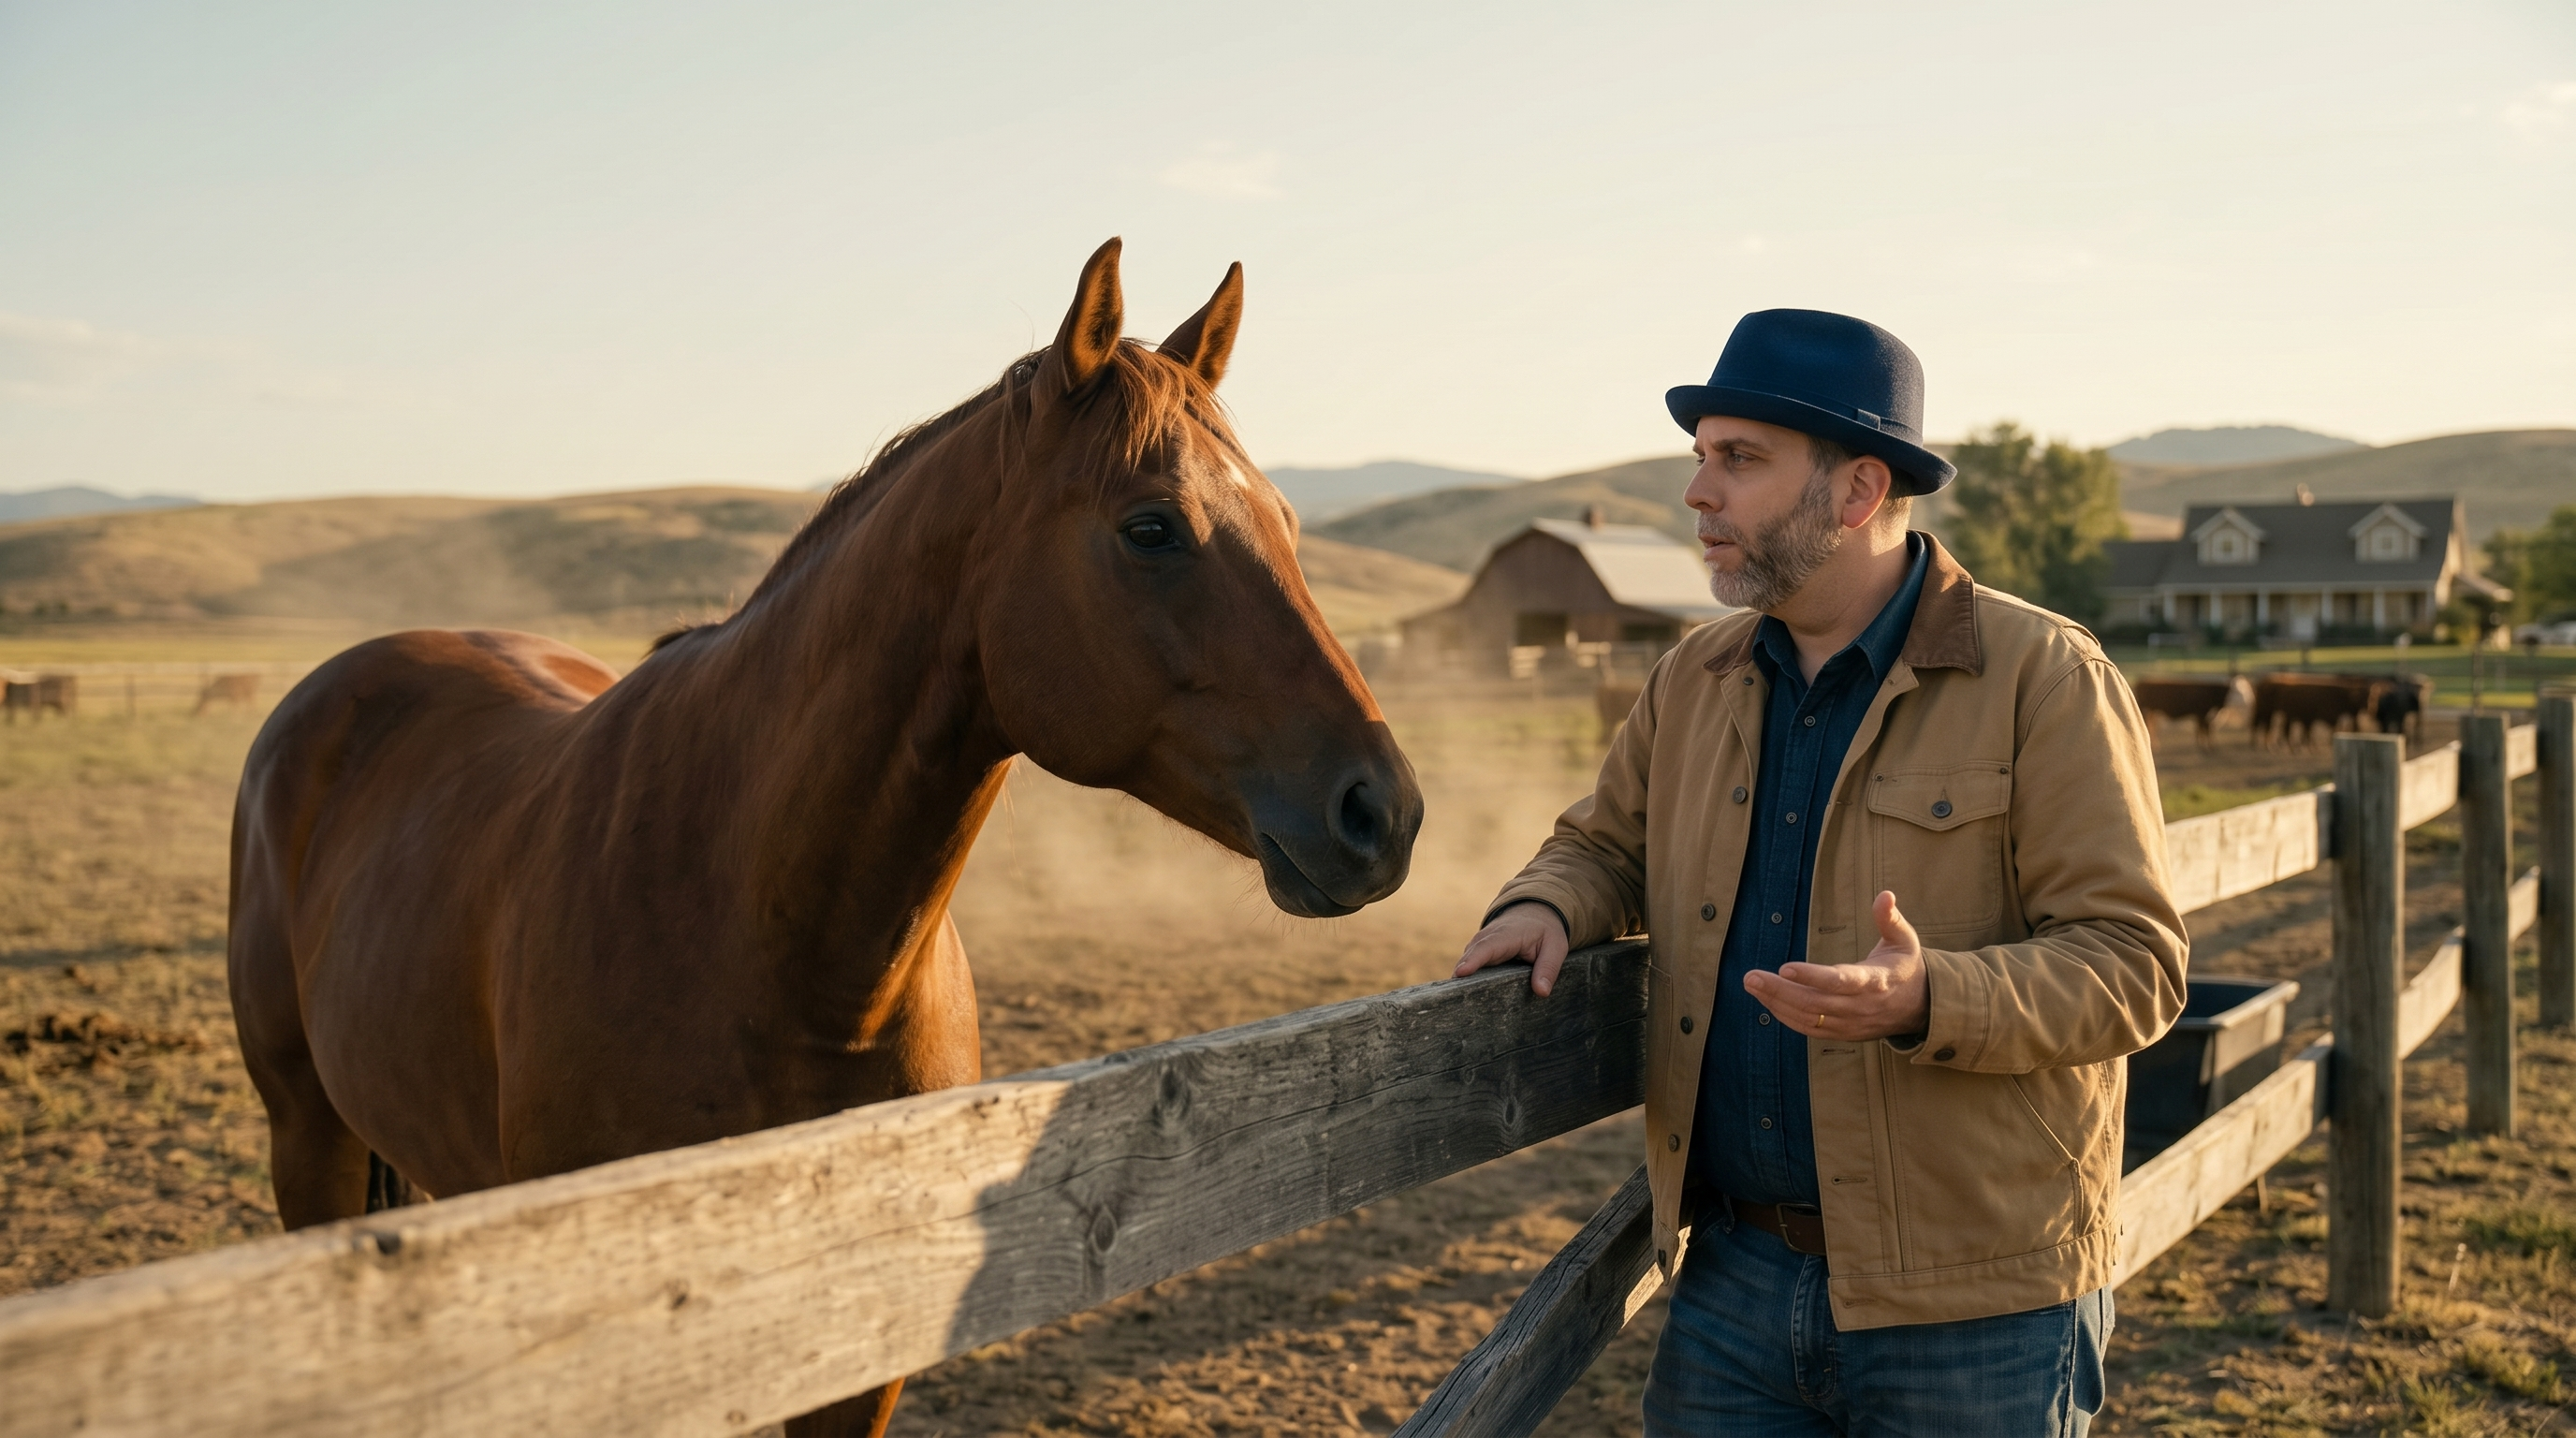
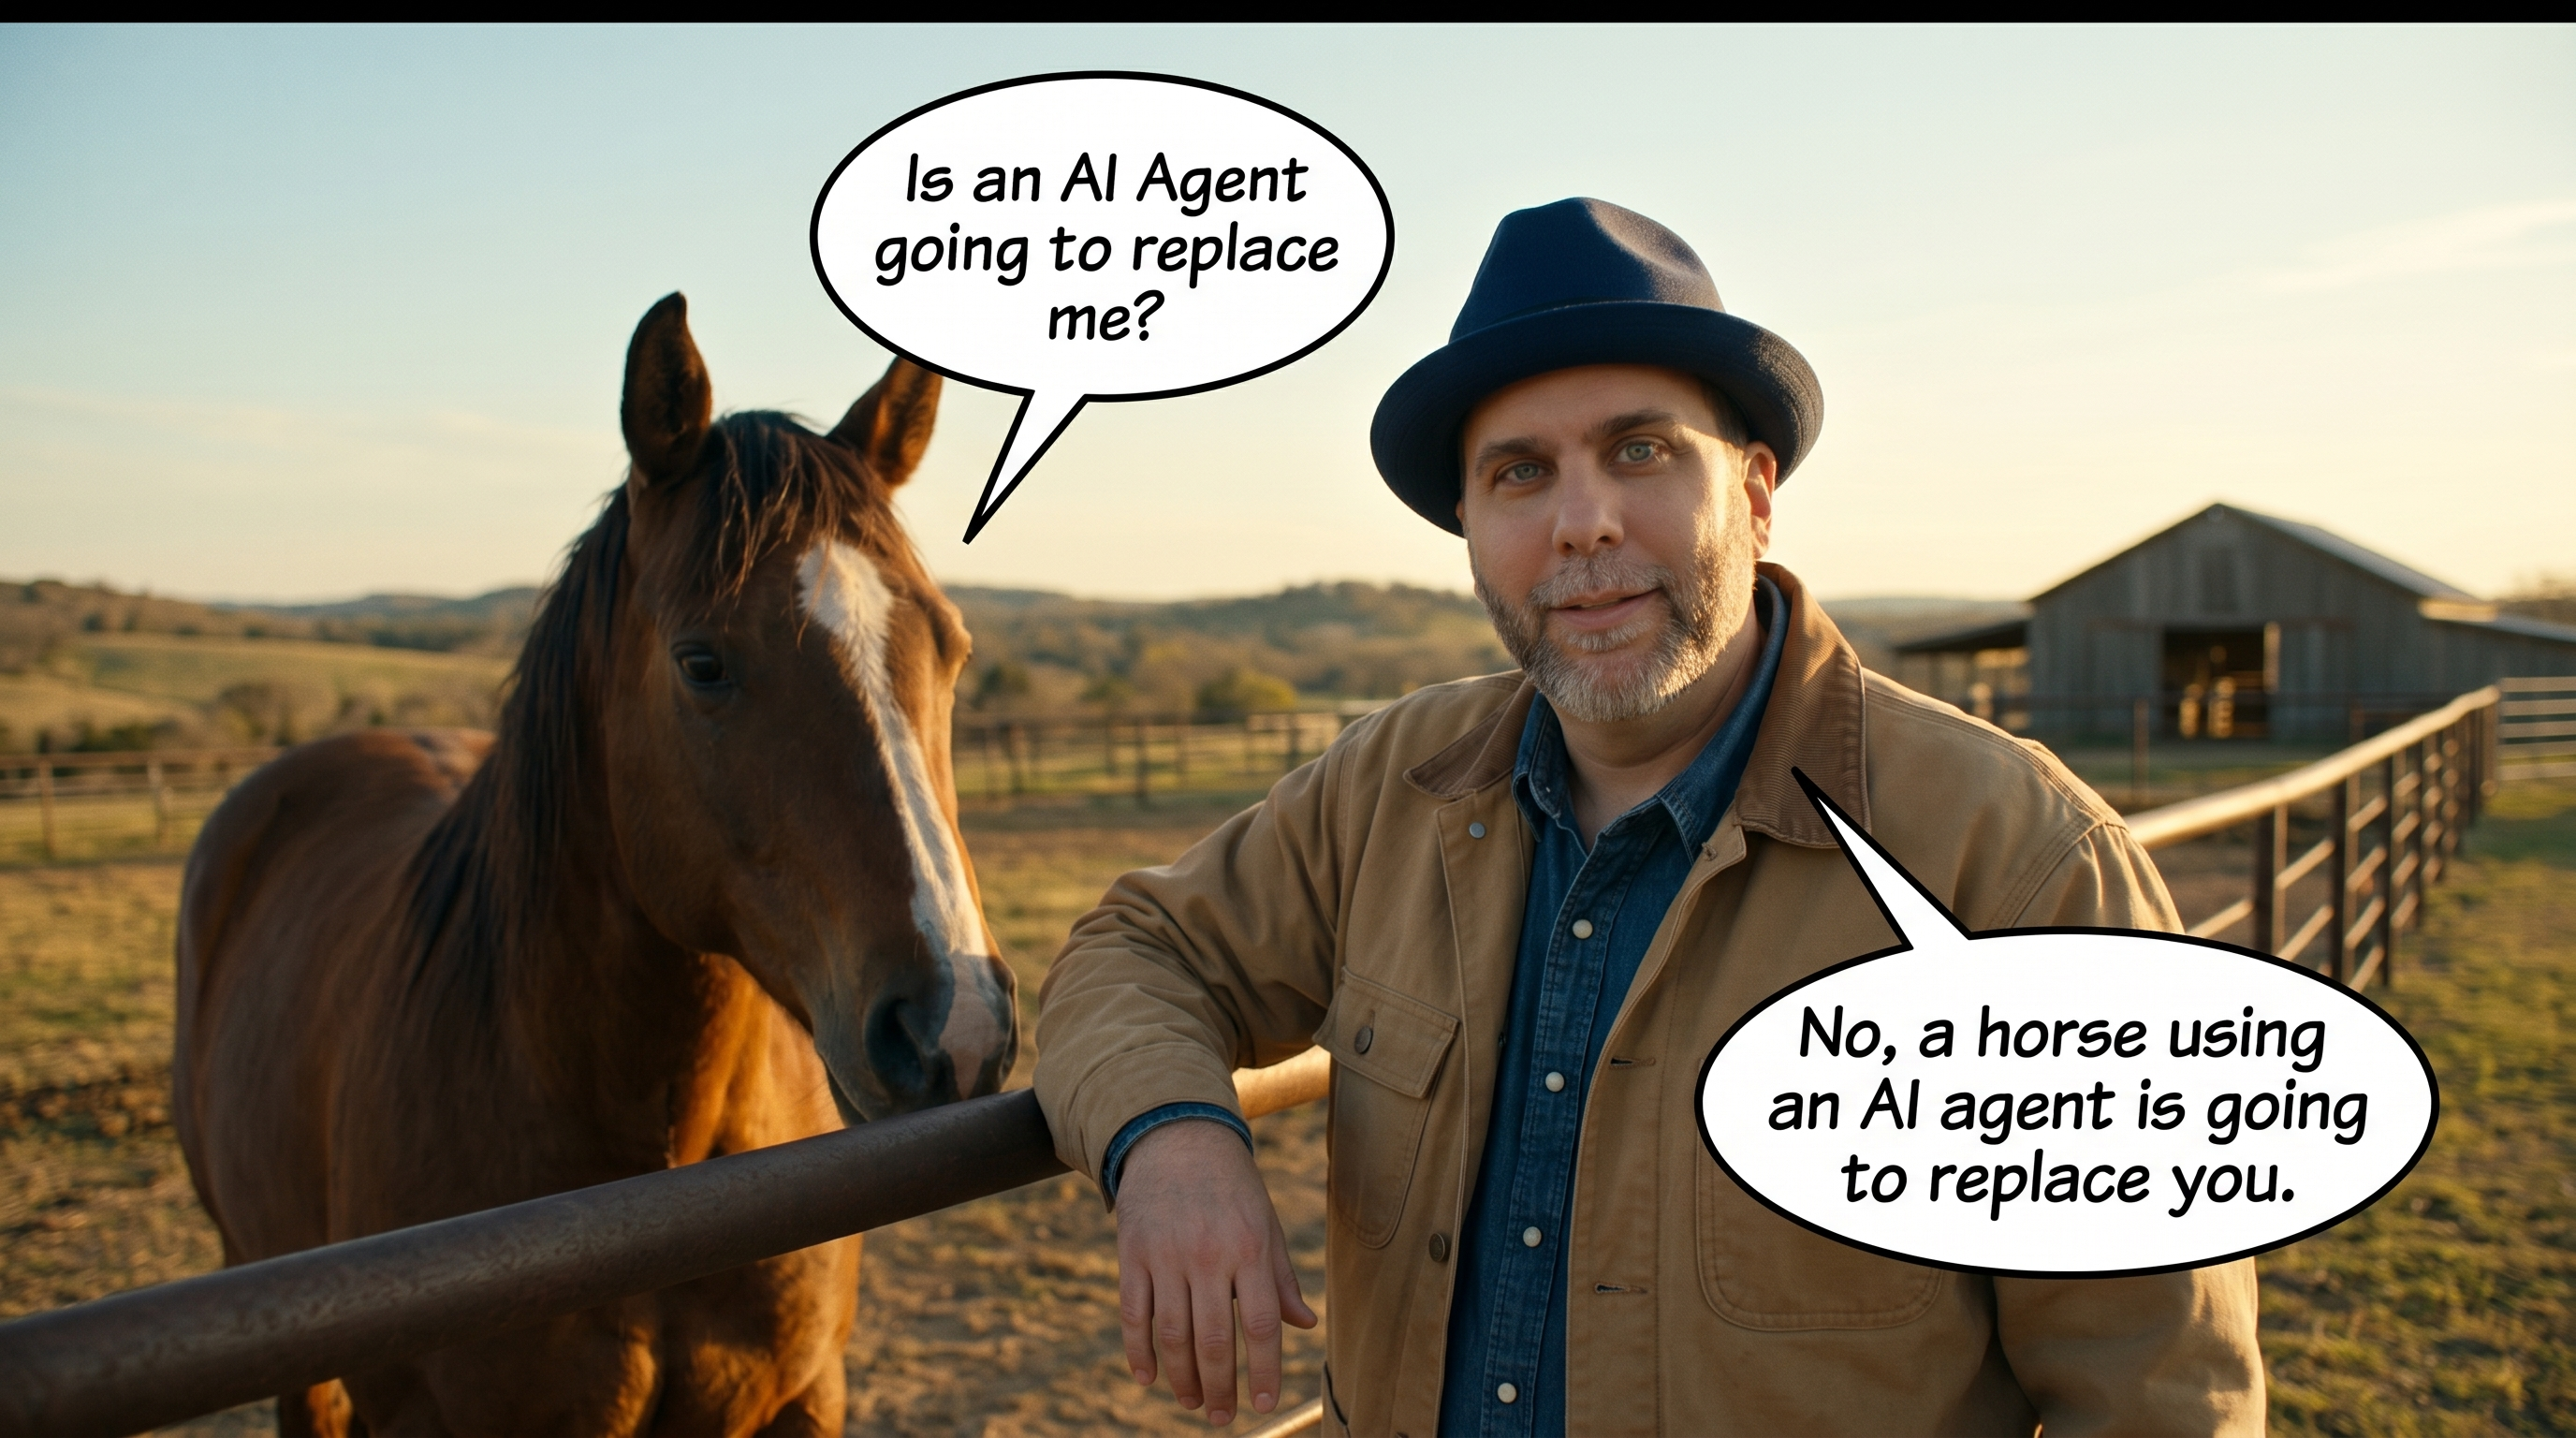
Bake hero dialogue into the image; remove the text quote from the page
The hero used to render the rancher's line to the horse as a styled
blockquote in the left text column. The image itself was just a man
and a horse. Edward wanted the conversation to live inside the image
as comic-book speech bubbles instead.

- Regenerated public/images/hero-2026-05-16.png with two speech bubbles
  overlaid: the horse asks "Is an AI Agent going to replace me?" and
  Edward replies "No, a horse using an AI agent is going to replace you."
- Removed the heroQuote const, the hero-quote figure block in the JSX,
  and the .hero-quote CSS rules from src/pages/index.astro. The dialogue
  now lives in the image itself.
- Updated imageAlt in src/themes/theme-config.ts to describe the new
  image including the full speech-bubble text (accessibility and SEO).

diff --git a/src/themes/theme-config.ts b/src/themes/theme-config.ts
@@ -133,7 +133,7 @@ export const currentTheme: ThemeConfig = {
     subtitle: "A working ranch where the livestock are AI companies and the only hand on the payroll is an AI agent. The boss still closes the books by sundown.",
     description: "The newest show in the Yellowstone universe premiered last night, so roske.ai is a working ranch this week. This is not a stretch I reached for: I grew up riding horses and going to rodeos in the Pacific Northwest, and I later owned a North Texas ranch that raised drum horses. The cattle, these days, are AI companies. (The fedora stays. It was never a cowboy hat, and it is not starting now.)",
     heroImage: "hero-2026-05-16.png",
-    imageAlt: "Edward Roske as a Texas rancher at golden hour, leaning on a weathered cedar fence rail in his signature blue fedora, a working ranch and longhorn cattle behind him under a wide Texas sky.",
+    imageAlt: "Edward Roske at a Texas paddock fence in his signature blue fedora, in conversation with a horse. The horse asks 'Is an AI Agent going to replace me?' in a speech bubble; Edward replies 'No, a horse using an AI agent is going to replace you.' Golden hour, ranch behind.",
     ctaText: "Tour the Spread",
     ctaLink: "#current-work",
   },